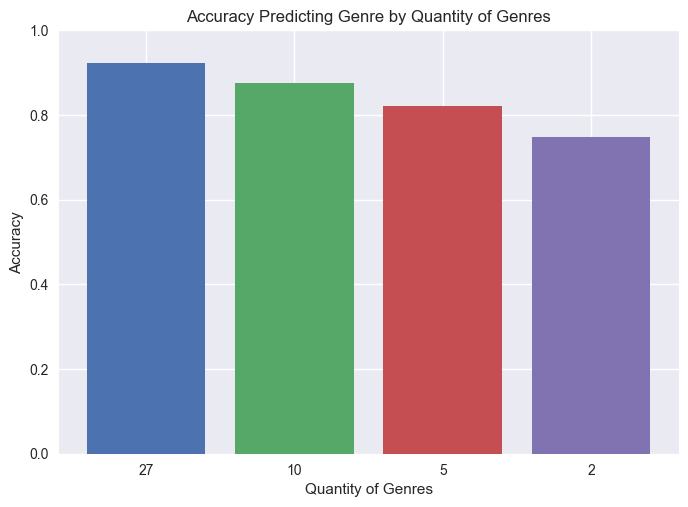
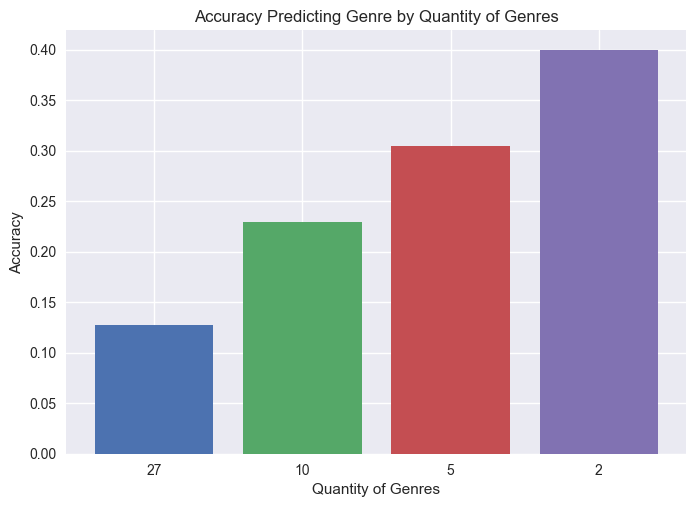
Normalize columns; remove fixed bounds of graphs

diff --git a/sources/visualize.py b/sources/visualize.py
@@ -1,10 +1,12 @@
 #!/usr/bin/env python3
 import matplotlib
+
 matplotlib.use("TkAgg")
 import matplotlib.pyplot as plt
 import numpy as np
 import pandas
 import random
+from sklearn import preprocessing
 
 import rating
 import genre
@@ -12,12 +14,27 @@ import genre
 plt.style.use("seaborn")
 
 MEGA_FIGURE = True
-FIX_LIMITS = True
+FIX_LIMITS = False 
 IMAGE_DPI = 100
 IMAGE_SIZE = (4, 3)
 
 csv_file = open("../dataset/dataset.csv", "r")
 data = pandas.read_csv("../dataset/dataset.csv")
+
+
+def normalize_column(colName):
+    col_values = data[[colName]].values.astype(float)
+    col_values_scaled = preprocessing.MinMaxScaler().fit_transform(col_values)
+    data[colName] = col_values_scaled
+
+
+normalize_column("runtimeMinutes")
+normalize_column("numVotes")
+normalize_column("directorsExperience")
+normalize_column("actorsExperience")
+normalize_column("producersExperience")
+
+print(data)
 
 # We never care about these.
 data = data.drop(["type", "title", "startYear"], 1)
@@ -75,7 +92,10 @@ def plot_rating_predictor_strength():
     result = rating.train_rating(sample_10k)["strengths"]
 
     for key, value in result.items():
+        print(key, value)
         plt.bar(key, value)
+
+    plt.xticks(rotation=90)
 
     if FIX_LIMITS:
         axes = plt.gca()
@@ -99,7 +119,10 @@ def plot_genre_predictor_strength():
     result = genre.train_genres(sample_10k)["strengths"]
 
     for key, value in result.items():
+        print(key, value)
         plt.bar(key, value)
+
+    plt.xticks(rotation=45)
 
     if FIX_LIMITS:
         axes = plt.gca()
@@ -239,7 +262,7 @@ def plot_rating_numvotes():
 
     actor_sum = max(scatter_data["size"])
     scatter_data["size"] = [float(i) / actor_sum for i in scatter_data["size"]]
-    scatter_data["size"] = [x * 700 for x in scatter_data["size"]]
+    scatter_data["size"] = [x * 500 for x in scatter_data["size"]]
 
     plt.scatter(
         "rating", "votes", s="size", c="actors", cmap="viridis", data=scatter_data
@@ -247,10 +270,10 @@ def plot_rating_numvotes():
     cbar = plt.colorbar()
     cbar.set_label("Actor Experience")
 
-    if FIX_LIMITS:
-        axes = plt.gca()
-        axes.set_xlim([3, 9])
-        axes.set_ylim([-1000, 60000])
+    #  if FIX_LIMITS:
+        #  axes = plt.gca()
+        #  axes.set_xlim([3, 9])
+        #  axes.set_ylim([-1000, 60000])
 
     if not MEGA_FIGURE:
         plt.savefig(
@@ -259,6 +282,7 @@ def plot_rating_numvotes():
             figsize=IMAGE_SIZE,
             dpi=IMAGE_DPI,
         )
+
 
 plots_to_generate = [
     plot_rating_numvotes,
